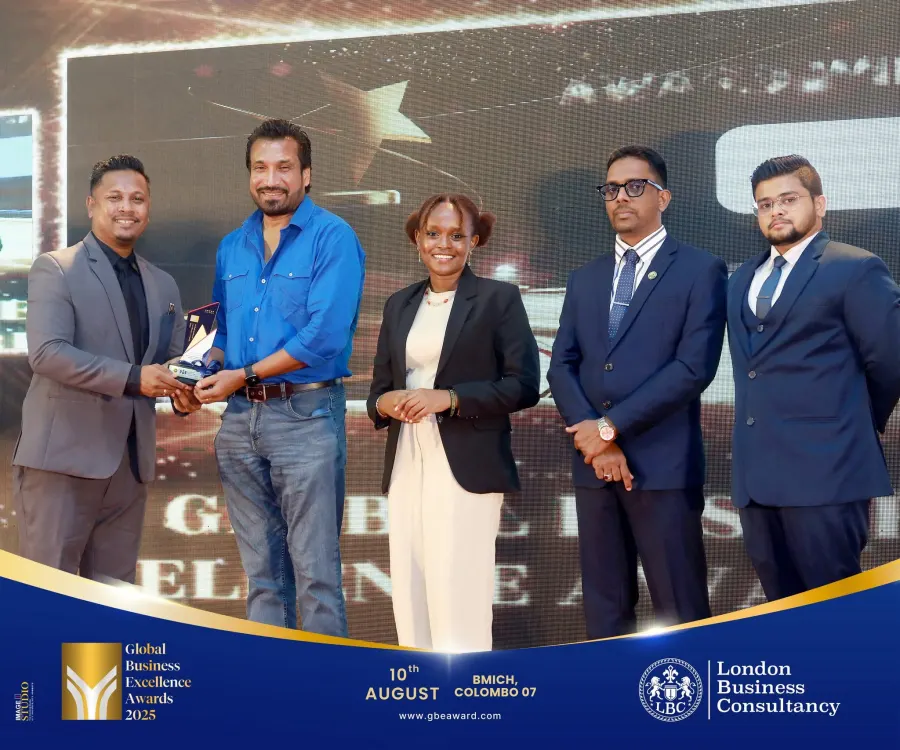
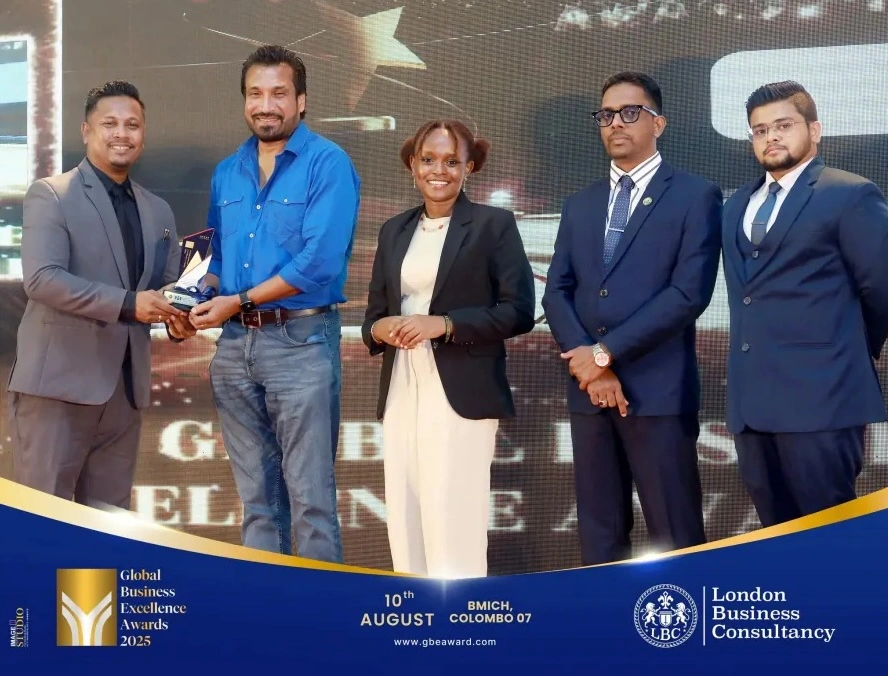
Adjust journey imagery to top align

diff --git a/src/components/JourneyImageSlider.tsx b/src/components/JourneyImageSlider.tsx
@@ -35,7 +35,7 @@ export default function JourneyImageSlider({ images }: { images: JourneyImage[] 
         <SwiperSlide key={`${image.src}-${index}`}>
           <figure className="relative m-0 overflow-hidden rounded-[18px] border border-[rgba(255,176,1,0.24)] bg-gbe-bg shadow-[0_12px_32px_rgba(26,26,46,0.12)]">
             <img
-              className="aspect-[16/10] w-full object-cover object-center"
+              className="aspect-[16/10] w-full object-cover object-top"
               src={image.src}
               srcSet={image.srcSet}
               sizes="(max-width: 560px) 92vw, (max-width: 1024px) 62vw, 30vw"
@@ -48,7 +48,7 @@ export default function JourneyImageSlider({ images }: { images: JourneyImage[] 
               data-preview-src={image.src}
               data-preview-srcset={image.srcSet}
               data-preview-alt={image.alt}
-              data-preview-position="50% 44%"
+              data-preview-position="50% 0%"
             />
             <div className="pointer-events-none absolute inset-0 bg-[linear-gradient(180deg,transparent_62%,rgba(0,0,0,0.46))]" aria-hidden="true"></div>
           </figure>